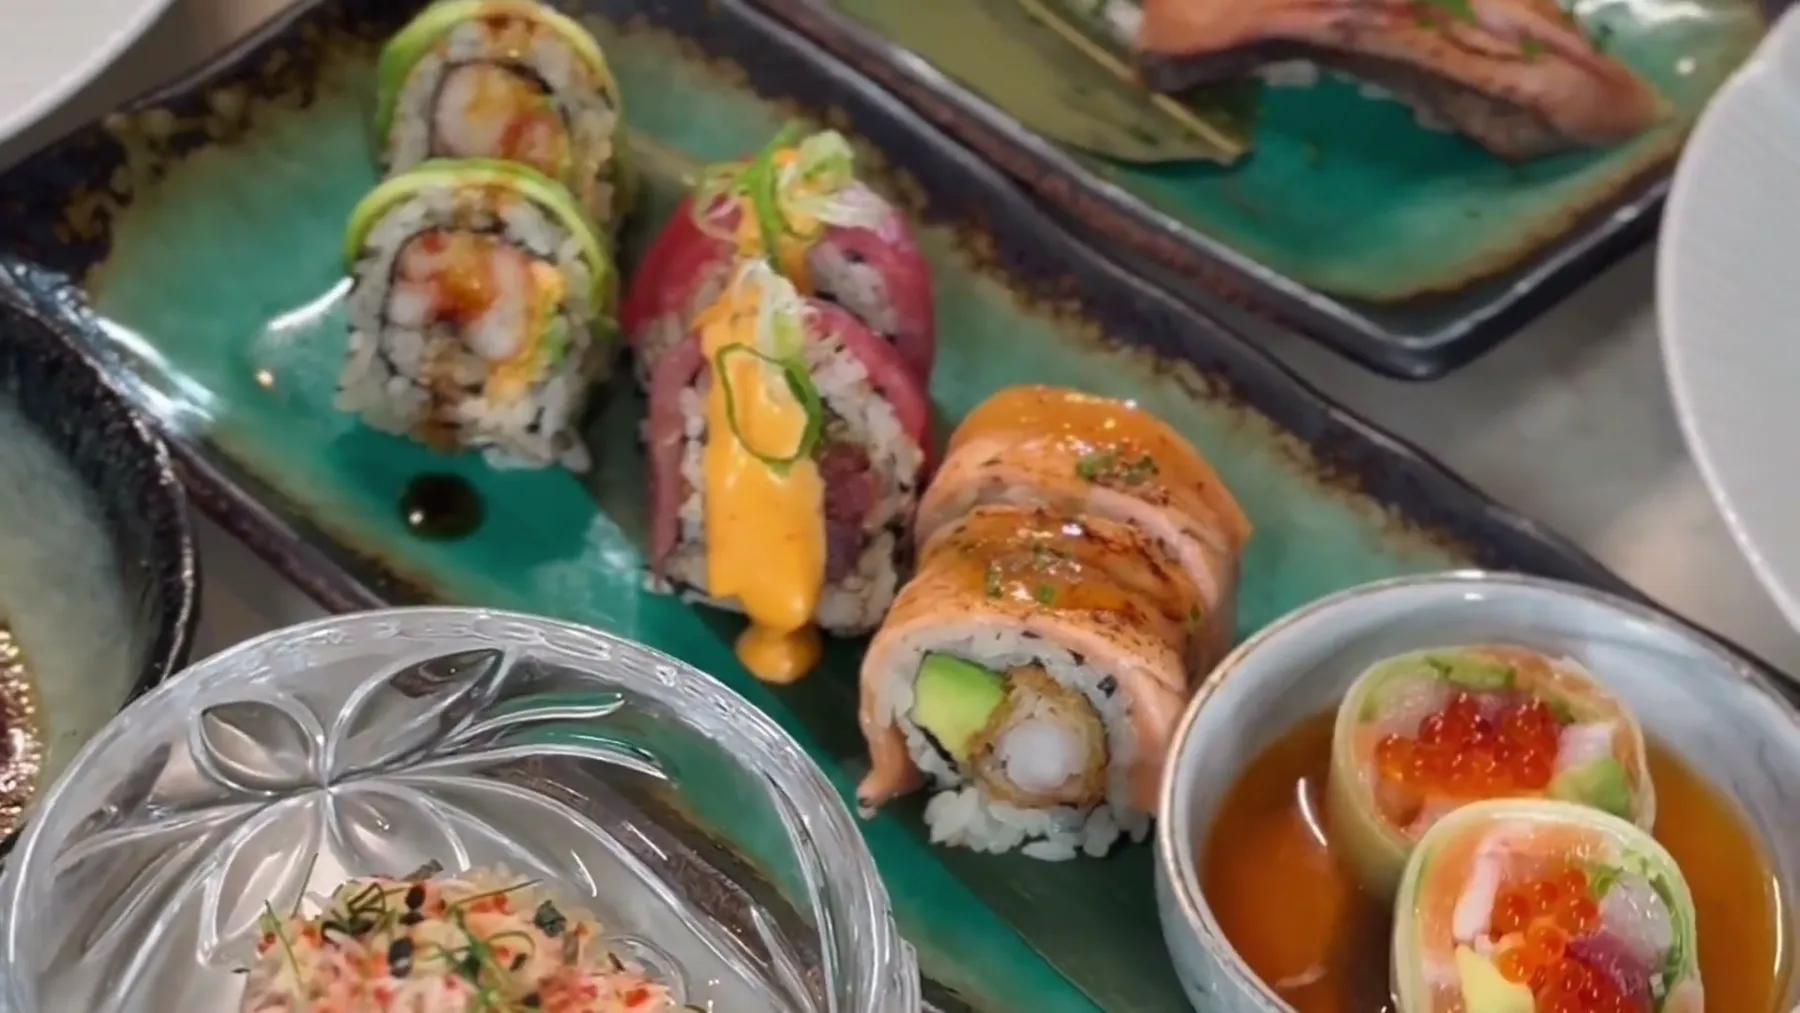
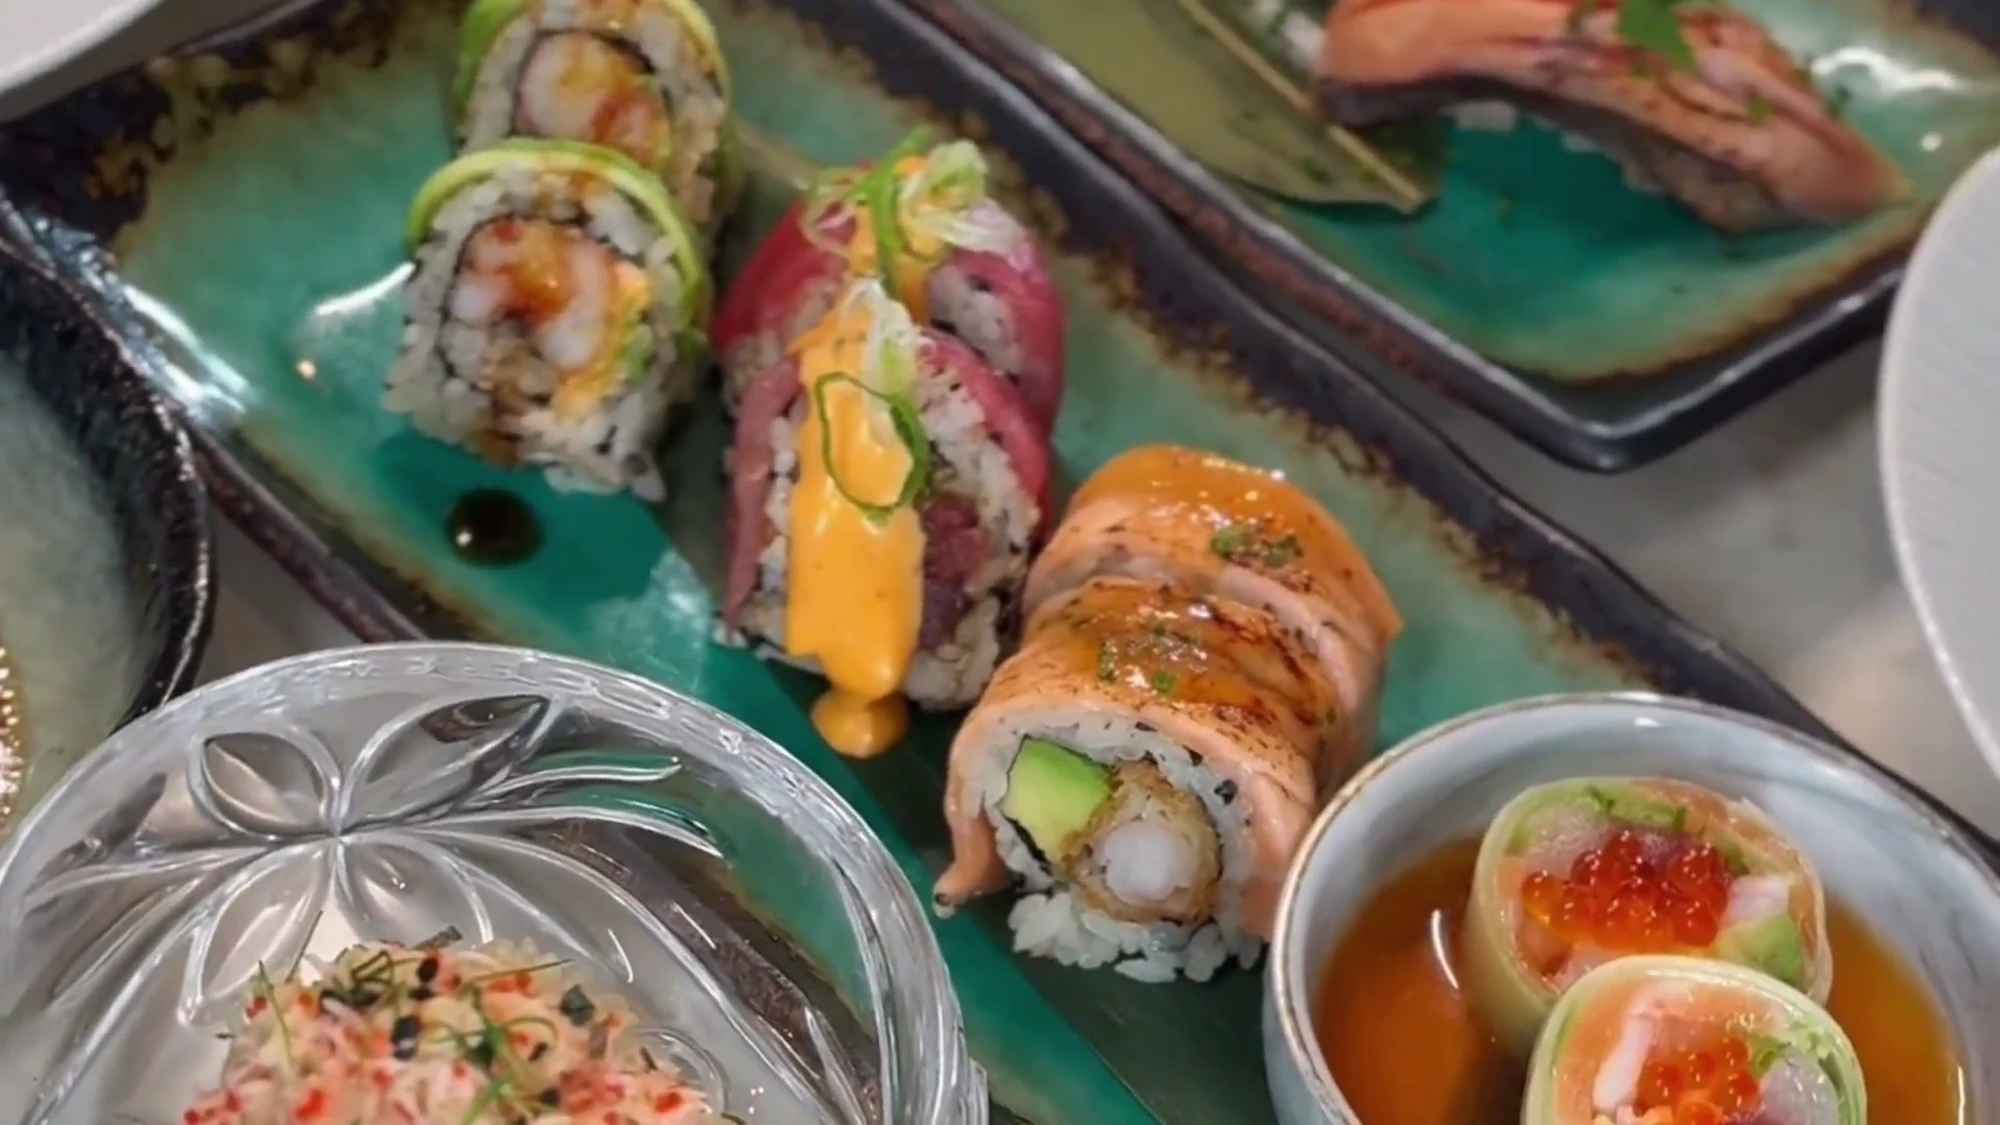
Bytt hero-bilder med bevegelsesuskarphet til skarpere frames + fjern uekte catering-tilbud
- Erstatt hero-plating (uskarpe kokkehender) med nye skarpe stillbilder
  (laksetartar, sprø rett) hentet fra hero-videoen
- Fjern "sushikokk på stedet" og "sushi-stand" fra catering-siden (bekreftet
  at restauranten ikke tilbyr dette), erstatt med ærlig info om cateringfat

diff --git a/catering-bergen/index.html b/catering-bergen/index.html
@@ -5,10 +5,10 @@
 <meta charset="UTF-8">
 <meta name="viewport" content="width=device-width, initial-scale=1">
 <title>Sushi catering Bergen. Sushi Roll Sentrum</title>
-<meta name="description" content="Sushi catering og arrangementer i Bergen fra Sushi Roll Sentrum: cateringfat, sushikokk på stedet, eller egen sushi-stand til bryllup, jubileum og bedriftsfest.">
+<meta name="description" content="Sushi catering til arrangementer i Bergen fra Sushi Roll Sentrum: cateringfat med nigiri, maki og sashimi, tilpasset antall gjester, klare til henting eller levering til bryllup, jubileum og bedriftsfest.">
 <link rel="canonical" href="https://sushiroll.no/catering-bergen/">
 <meta property="og:title" content="Sushi catering og arrangementer i Bergen">
-<meta property="og:description" content="Cateringfat, sushikokk på stedet eller sushi-stand til ditt arrangement i Bergen.">
+<meta property="og:description" content="Cateringfat tilpasset ditt arrangement i Bergen, klare til henting eller levering.">
 <meta property="og:type" content="website">
 <meta property="og:url" content="https://sushiroll.no/catering-bergen/">
 <meta name="theme-color" content="#18160f">
@@ -102,7 +102,7 @@
   <div class="container">
     <p class="eyebrow">Catering</p>
     <h1 class="headline">Sushi catering og arrangementer i Bergen</h1>
-    <p>Enten det er bryllup, bedriftsfest eller jubileum: vi setter sammen sushi til gjestene dine. Velg mellom cateringfat til henting eller levering, en sushikokk som lager rullene ferske foran gjestene, eller en egen sushi-stand med takeaway-følelse på arrangementet.</p>
+    <p>Enten det er bryllup, bedriftsfest eller jubileum: vi setter sammen cateringfat med nigiri, maki og sashimi til gjestene dine, tilpasset antall gjester, klare til henting eller levering til arrangementet.</p>
   </div>
 </section>
 
@@ -122,24 +122,24 @@
 <section class="section">
   <div class="container">
     <div class="section-head center">
-      <p class="eyebrow reveal">Tre måter å servere sushi på</p>
-      <h2 class="headline">Velg det som passer arrangementet</h2>
+      <p class="eyebrow reveal">Cateringfat</p>
+      <h2 class="headline">Slik fungerer sushi-cateringen vår</h2>
     </div>
     <div class="action-grid">
       <div class="action-card reveal">
         <svg class="icon" viewBox="0 0 24 24" fill="none" stroke="currentColor" stroke-width="1.4"><circle cx="12" cy="12" r="9"/><path d="M12 7v5l3 3"/></svg>
-        <h3>Cateringfat</h3>
-        <p>Ferdig sammensatte fat med nigiri, maki og sashimi, klare til henting eller levering til arrangementet.</p>
+        <h3>Tilpasset antall gjester</h3>
+        <p>Vi setter sammen fat med nigiri, maki og sashimi etter hvor mange dere er og hva slags arrangement det er.</p>
       </div>
       <div class="action-card reveal">
         <svg class="icon" viewBox="0 0 24 24" fill="none" stroke="currentColor" stroke-width="1.4"><path d="M6.5 3h11l-2 6h-7l-2-6Z"/><path d="M8.5 9v11M15.5 9v11M4 20h16"/></svg>
-        <h3>Sushikokk på stedet</h3>
-        <p>En kokk lager sushien ferskt foran gjestene dine, en opplevelse i seg selv til bryllup og bedriftsfester.</p>
+        <h3>Henting eller levering</h3>
+        <p>Hent selv i Håkonsgaten, eller avtal levering til arrangementet ditt i Bergen sentrum.</p>
       </div>
       <div class="action-card reveal">
         <svg class="icon" viewBox="0 0 24 24" fill="none" stroke="currentColor" stroke-width="1.4"><path d="M4 9h16v10H4zM4 9l2-5h12l2 5"/></svg>
-        <h3>Sushi-stand</h3>
-        <p>Egen takeaway-stand med et utvalg fra menyen, god løsning for større arrangementer og messer.</p>
+        <h3>Ferskt samme dag</h3>
+        <p>Fatene lages ferske til avtalt tidspunkt, samme håndverk som i takeaway-menyen vår.</p>
       </div>
     </div>
   </div>

diff --git a/bedrift/index.html b/bedrift/index.html
@@ -98,7 +98,7 @@
   </div>
 </div>
 
-<section class="menu-hero menu-hero--photo" style="background-image:url('../assets/images/hero-plating.webp')">
+<section class="menu-hero menu-hero--photo" style="background-image:url('../assets/images/hero-tartar.webp')">
   <div class="container">
     <p class="eyebrow">Bedrift</p>
     <h1 class="headline">Sushi og lunsjavtaler for bedrifter i Bergen</h1>

diff --git a/student/index.html b/student/index.html
@@ -98,7 +98,7 @@
   </div>
 </div>
 
-<section class="menu-hero menu-hero--photo" style="background-image:url('../assets/images/hero-platter.webp')">
+<section class="menu-hero menu-hero--photo" style="background-image:url('../assets/images/hero-tartar.webp')">
   <div class="container">
     <p class="eyebrow">Student</p>
     <h1 class="headline">20&nbsp;% studentrabatt i Bergen sentrum</h1>

diff --git a/overtidsmat-bergen/index.html b/overtidsmat-bergen/index.html
@@ -98,7 +98,7 @@
   </div>
 </div>
 
-<section class="menu-hero menu-hero--photo" style="background-image:url('../assets/images/hero-plating.webp')">
+<section class="menu-hero menu-hero--photo" style="background-image:url('../assets/images/hero-tartar.webp')">
   <div class="container">
     <p class="eyebrow">Overtidsmat</p>
     <h1 class="headline">Overtidsmat til bedrifter i Bergen</h1>

diff --git a/takeaway-bergen/index.html b/takeaway-bergen/index.html
@@ -98,7 +98,7 @@
   </div>
 </div>
 
-<section class="menu-hero menu-hero--photo" style="background-image:url('../assets/images/hero-platter.webp')">
+<section class="menu-hero menu-hero--photo" style="background-image:url('../assets/images/hero-crispy.webp')">
   <div class="container">
     <p class="eyebrow">Takeaway</p>
     <h1 class="headline">Sushi takeaway i Bergen sentrum</h1>

diff --git a/kontakt/index.html b/kontakt/index.html
@@ -98,7 +98,7 @@
   </div>
 </div>
 
-<section class="menu-hero menu-hero--photo" style="background-image:url('../assets/images/hero-plating.webp')">
+<section class="menu-hero menu-hero--photo" style="background-image:url('../assets/images/hero-crispy.webp')">
   <div class="container">
     <p class="eyebrow">Kontakt</p>
     <h1 class="headline">Kontakt oss</h1>
